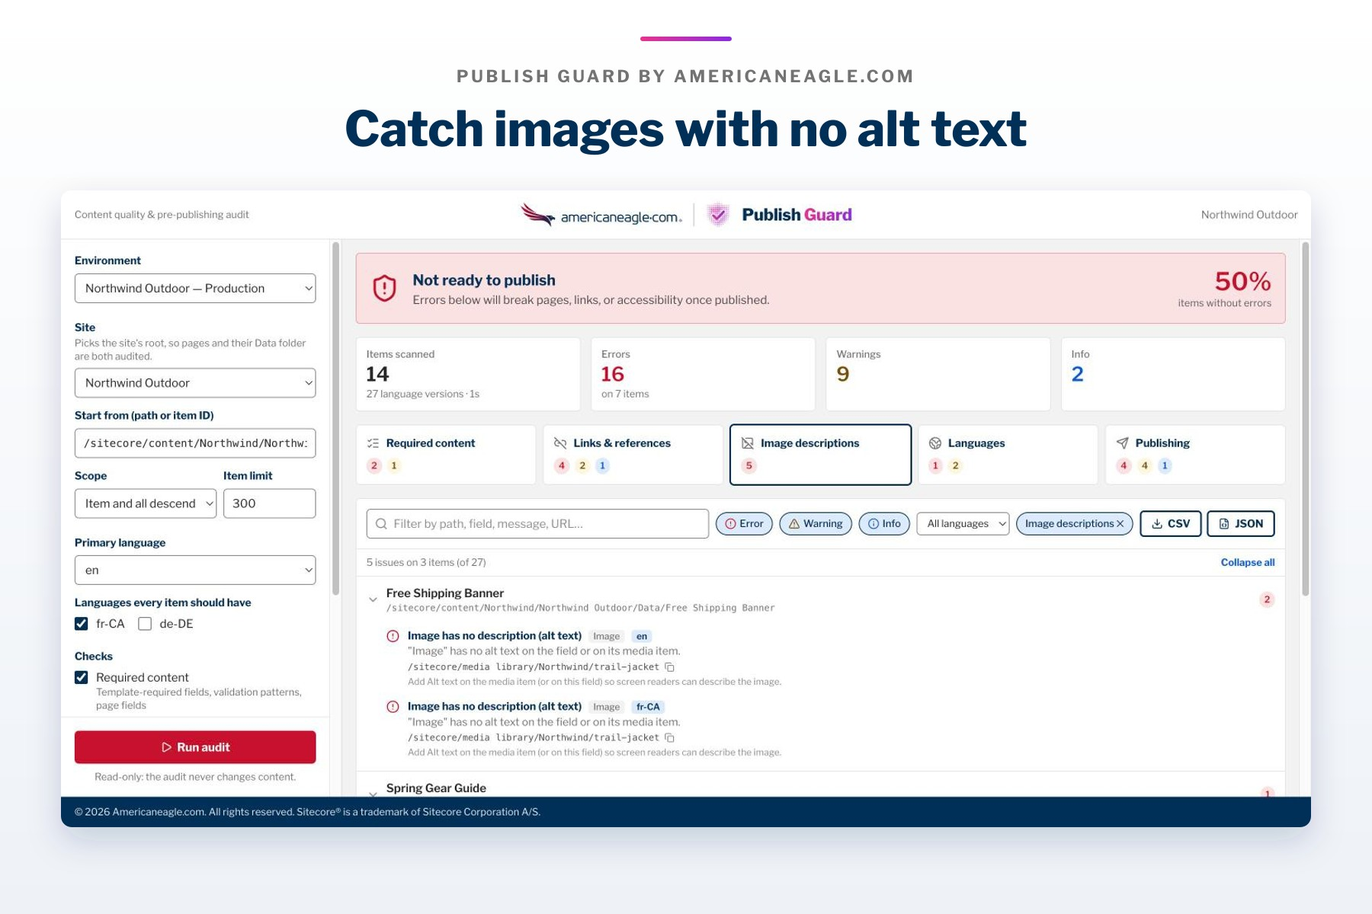
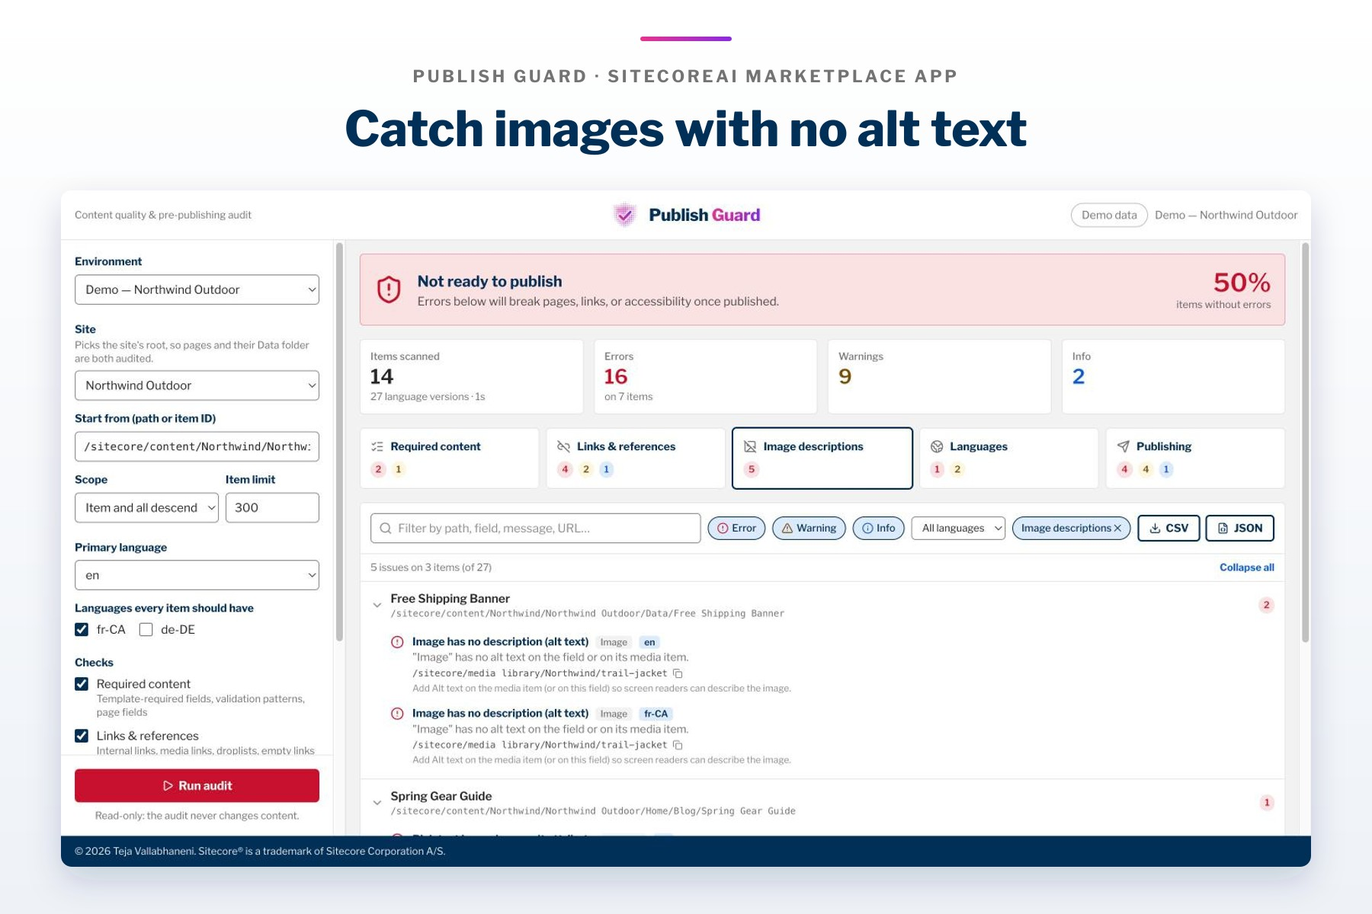
Rebrand Publish Guard as a personal project (UI and docs only)
- Remove the Americaneagle.com logo from the header and credit the footer
  to Teja Vallabhaneni; update the page title
- Rename --ae-* / .ae-* style tokens and classes to --pg-* / .pg-* and drop
  AE references from comments (same colours, no layout changes)
- README: new summary, links to the demo and how-to guide, and a screenshot
  gallery; Marketplace listing doc and article sources without AE branding
- Recapture the Marketplace and article screenshots from the offline demo

No changes to audit logic: src/lib is untouched and all 448 tests pass.

diff --git a/docs/articles/out/content-transfer.preview.html b/docs/articles/out/content-transfer.preview.html
@@ -1,9 +1,9 @@
-<!doctype html><meta charset="utf-8"><title>How to Use Content Transfer: Copy Content Between SitecoreAI Environments</title><style>body{font:17px/1.6 Georgia,serif;max-width:760px;margin:40px auto;padding:0 16px;color:#222}img{max-width:100%;height:auto}figcaption{font:13px sans-serif;color:#666;text-align:center}table{border-collapse:collapse;width:100%;font:15px sans-serif}td,th{border:1px solid #ddd;padding:8px;vertical-align:top;text-align:left}blockquote{border-left:4px solid #8a2be2;margin:1em 0;padding:.2em 1em;background:#f6f2fd}code{background:#f2f2f2;padding:0 3px}</style><h1>How to Use Content Transfer: Copy Content Between SitecoreAI Environments</h1><p><em>A step-by-step guide to Content Transfer by AE, the SitecoreAI Marketplace app that copies content from one environment to another the way the Sitecore 10 Package Manager did: pick items, choose what happens if they exist, review every change, then execute.</em></p><!-- wp:paragraph -->
+<!doctype html><meta charset="utf-8"><title>How to Use Content Transfer: Copy Content Between SitecoreAI Environments</title><style>body{font:17px/1.6 Georgia,serif;max-width:760px;margin:40px auto;padding:0 16px;color:#222}img{max-width:100%;height:auto}figcaption{font:13px sans-serif;color:#666;text-align:center}table{border-collapse:collapse;width:100%;font:15px sans-serif}td,th{border:1px solid #ddd;padding:8px;vertical-align:top;text-align:left}blockquote{border-left:4px solid #8a2be2;margin:1em 0;padding:.2em 1em;background:#f6f2fd}code{background:#f2f2f2;padding:0 3px}</style><h1>How to Use Content Transfer: Copy Content Between SitecoreAI Environments</h1><p><em>A step-by-step guide to Content Transfer, the SitecoreAI Marketplace app that copies content from one environment to another the way the Sitecore 10 Package Manager did: pick items, choose what happens if they exist, review every change, then execute.</em></p><!-- wp:paragraph -->
 <p>Most SitecoreAI customers run several environments: a development sandbox, staging, production. Content built in one of them has to end up in the others. Packages and serialization are developer tools; they work on files and pipelines. Neither lets a content author say <em>copy these eleven pages to staging, and show me what that will change before it changes anything</em>.</p>
 <!-- /wp:paragraph -->
 
 <!-- wp:paragraph -->
-<p><strong>Content Transfer by AE</strong> is that tool. It is a SitecoreAI Marketplace app, built by Americaneagle.com, that shows two environments' content trees side by side, lets you pick what should move, shows exactly what would change, and only writes when you press Execute. If you used the Sitecore 10 Package Manager, the options will feel familiar.</p>
+<p><strong>Content Transfer</strong> is that tool. It is a SitecoreAI Marketplace app I built that shows two environments' content trees side by side, lets you pick what should move, shows exactly what would change, and only writes when you press Execute. If you used the Sitecore 10 Package Manager, the options will feel familiar.</p>
 <!-- /wp:paragraph -->
 
 <!-- wp:heading -->
@@ -12,7 +12,7 @@
 
 <!-- wp:list {"ordered":true} -->
 <ol class="wp-block-list"><!-- wp:list-item -->
-<li>In <strong>Cloud Portal</strong>, open <strong>Marketplace</strong>, find <strong>Content Transfer by AE</strong> and install it.</li>
+<li>In <strong>Cloud Portal</strong>, open <strong>Marketplace</strong>, find <strong>Content Transfer</strong> and install it.</li>
 <!-- /wp:list-item -->
 <!-- wp:list-item -->
 <li>Install it on <strong>both</strong> environments: the one you copy from and the one you copy to. A transfer needs at least two. Add more later in <strong>My apps → Update installation options</strong>.</li>
@@ -281,5 +281,5 @@
 <!-- /wp:separator -->
 
 <!-- wp:paragraph -->
-<p>Content Transfer is built by <a href="https://www.americaneagle.com/">Americaneagle.com</a>. For support, <a href="https://www.americaneagle.com/contact-us">contact us</a>. Its sibling app, <em>Publish Guard by AE</em>, audits content for broken links, missing alt text, incomplete languages and publishing blockers before you release. A how-to guide for it is also on this blog.</p>
+<p>Content Transfer is a personal project by Teja Vallabhaneni. Its sibling app, <em>Publish Guard</em>, audits content for broken links, missing alt text, incomplete languages and publishing blockers before you release. A how-to guide for it is also on this blog.</p>
 <!-- /wp:paragraph -->

diff --git a/docs/articles/out/publish-guard.preview.html b/docs/articles/out/publish-guard.preview.html
@@ -1,9 +1,9 @@
-<!doctype html><meta charset="utf-8"><title>How to Use Publish Guard: Audit SitecoreAI Content Before You Publish</title><style>body{font:17px/1.6 Georgia,serif;max-width:760px;margin:40px auto;padding:0 16px;color:#222}img{max-width:100%;height:auto}figcaption{font:13px sans-serif;color:#666;text-align:center}table{border-collapse:collapse;width:100%;font:15px sans-serif}td,th{border:1px solid #ddd;padding:8px;vertical-align:top;text-align:left}blockquote{border-left:4px solid #8a2be2;margin:1em 0;padding:.2em 1em;background:#f6f2fd}code{background:#f2f2f2;padding:0 3px}</style><h1>How to Use Publish Guard: Audit SitecoreAI Content Before You Publish</h1><p><em>A step-by-step guide to Publish Guard by AE, the SitecoreAI Marketplace app that audits a whole site for empty required fields, broken links, missing alt text, incomplete languages and publishing blockers before you release.</em></p><!-- wp:paragraph -->
+<!doctype html><meta charset="utf-8"><title>How to Use Publish Guard: Audit SitecoreAI Content Before You Publish</title><style>body{font:17px/1.6 Georgia,serif;max-width:760px;margin:40px auto;padding:0 16px;color:#222}img{max-width:100%;height:auto}figcaption{font:13px sans-serif;color:#666;text-align:center}table{border-collapse:collapse;width:100%;font:15px sans-serif}td,th{border:1px solid #ddd;padding:8px;vertical-align:top;text-align:left}blockquote{border-left:4px solid #8a2be2;margin:1em 0;padding:.2em 1em;background:#f6f2fd}code{background:#f2f2f2;padding:0 3px}</style><h1>How to Use Publish Guard: Audit SitecoreAI Content Before You Publish</h1><p><em>A step-by-step guide to Publish Guard, the SitecoreAI Marketplace app that audits a whole site for empty required fields, broken links, missing alt text, incomplete languages and publishing blockers before you release.</em></p><!-- wp:paragraph -->
 <p>Every SitecoreAI release has the same last-minute questions. Did anyone leave a required field empty? Does that promo still link to a page we deleted? Do the new hero images have alt text? Is the French version of the product page actually there? Will the page even publish, or is it still sitting in a Draft workflow state?</p>
 <!-- /wp:paragraph -->
 
 <!-- wp:paragraph -->
-<p><strong>Publish Guard by AE</strong> answers those questions in one pass. It is a SitecoreAI Marketplace app, built by Americaneagle.com, that audits a whole site (or any part of it) and reports everything that would ship broken, with a clear release verdict at the top. It is read-only: it never creates, changes or deletes content.</p>
+<p><strong>Publish Guard</strong> answers those questions in one pass. It is a SitecoreAI Marketplace app I built that audits a whole site (or any part of it) and reports everything that would ship broken, with a clear release verdict at the top. It is read-only: it never creates, changes or deletes content.</p>
 <!-- /wp:paragraph -->
 
 <!-- wp:paragraph -->
@@ -296,5 +296,5 @@
 <!-- /wp:separator -->
 
 <!-- wp:paragraph -->
-<p>Publish Guard is built by <a href="https://www.americaneagle.com/">Americaneagle.com</a>. For support, <a href="https://www.americaneagle.com/contact-us">contact us</a>. Its sibling app, <em>Content Transfer by AE</em>, copies content between SitecoreAI environments. A how-to guide for it is also on this blog.</p>
+<p>Publish Guard is a personal project by Teja Vallabhaneni. For questions, open an issue on <a href="https://github.com/tejavallabhaneni/sitecoreai-releaseguard/issues">GitHub</a>. Its sibling app, <em>Content Transfer</em>, copies content between SitecoreAI environments. A how-to guide for it is also on this blog.</p>
 <!-- /wp:paragraph -->

diff --git a/src/app/globals.css b/src/app/globals.css
@@ -1,37 +1,36 @@
 @import "tailwindcss";
 
 /*
-  Publish Guard — americaneagle.com design system (shared with Content Transfer by AE).
+  Publish Guard design tokens.
 
-  Every colour is a value from americaneagle.com's stylesheet. Libre Franklin is the
-  only typeface. Headings are bold navy; the primary action is the site's red
-  `.button` (2px border, 5px radius, bold, underline on hover); the product name
+  Libre Franklin is the only typeface. Headings are bold navy; the primary action is a
+  red button (2px border, 5px radius, bold, underline on hover); the product name
   carries the pink → purple gradient.
 */
 
-/* Layer 1: americaneagle.com palette. Components never use these directly. */
+/* Layer 1: raw palette. Components never use these directly. */
 :root {
-  --ae-navy: #003057;
-  --ae-navy-hover: #004db2;
-  --ae-red: #c8102e;
-  --ae-red-hover: #a80e26;
-  --ae-bold-blue: #005cd7;
-  --ae-light-blue: #dbeafb;
-  --ae-text: #262626;
-  --ae-med-gray: #737373;
-  --ae-light-gray: #e5e5e5;
-  --ae-gray: #bfbfbf;
-  --ae-very-light-gray: #f2f2f2;
-  --ae-light-green: #ddf2ec;
-  --ae-dark-green: #007d59;
-  --ae-light-yellow: #fff6e0;
-  --ae-dark-yellow: #de9800;
-  --ae-light-red: #fae1e3;
-  --ae-pink: #e8338e;
-  --ae-purple: #8a2be2;
+  --pg-navy: #003057;
+  --pg-navy-hover: #004db2;
+  --pg-red: #c8102e;
+  --pg-red-hover: #a80e26;
+  --pg-bold-blue: #005cd7;
+  --pg-light-blue: #dbeafb;
+  --pg-text: #262626;
+  --pg-med-gray: #737373;
+  --pg-light-gray: #e5e5e5;
+  --pg-gray: #bfbfbf;
+  --pg-very-light-gray: #f2f2f2;
+  --pg-light-green: #ddf2ec;
+  --pg-dark-green: #007d59;
+  --pg-light-yellow: #fff6e0;
+  --pg-dark-yellow: #de9800;
+  --pg-light-red: #fae1e3;
+  --pg-pink: #e8338e;
+  --pg-purple: #8a2be2;
   /* Contrast-safe extras: amber copy on light yellow (4.5:1), control outline on white (3:1). */
-  --ae-amber-text: #7a5100;
-  --ae-control-line: #8c8c8c;
+  --pg-amber-text: #7a5100;
+  --pg-control-line: #8c8c8c;
 }
 
 /* Layer 2: semantic names used by the components. */
@@ -50,7 +49,7 @@
   --color-canvas: #f2f2f2;
   --color-surface: #ffffff;
 
-  /* Primary action: the site's red button. */
+  /* Primary action: the red button. */
   --color-brand: #c8102e;
   --color-brand-hover: #a80e26;
   /* Selected / active state: light blue with navy. */
@@ -98,16 +97,16 @@ button:not(:disabled) {
   cursor: pointer;
 }
 
-/* "Publish Guard": Guard in the AE pink → purple gradient. */
-.ae-gradient-text {
-  background-image: linear-gradient(90deg, var(--ae-pink), var(--ae-purple));
+/* "Publish Guard": Guard in the pink → purple gradient. */
+.pg-gradient-text {
+  background-image: linear-gradient(90deg, var(--pg-pink), var(--pg-purple));
   -webkit-background-clip: text;
   background-clip: text;
   color: transparent;
 }
 
-/* 12px bold uppercase, 3px tracking, medium gray — the site's eyebrow. */
-.ae-eyebrow {
+/* 12px bold uppercase, 3px tracking, medium gray — the eyebrow style. */
+.pg-eyebrow {
   font-size: 12px;
   font-weight: 700;
   letter-spacing: 3px;

diff --git a/src/components/brand.tsx b/src/components/brand.tsx
@@ -1,21 +1,12 @@
 /* eslint-disable @next/next/no-img-element -- static SVG brand assets, nothing to optimise */
 
 /**
- * americaneagle.com logo | divider | Publish Guard mark + name — the same lockup as
- * Content Transfer by AE. The name is live text: "Publish" navy, "Guard" in the
+ * Publish Guard mark + name. The name is live text: "Publish" navy, "Guard" in the
  * pink → purple gradient.
  */
 export function BrandLockup() {
   return (
     <div className="flex min-w-0 items-center gap-2.5 sm:gap-3.5">
-      <img
-        src="/branding/americaneagle-logo.svg"
-        alt="Americaneagle.com"
-        width={221}
-        height={34}
-        className="h-[22px] w-auto shrink-0 sm:h-[30px]"
-      />
-      <span aria-hidden className="h-6 w-px shrink-0 bg-line-strong sm:h-7" />
       <img
         src="/branding/publish-guard-mark.svg"
         alt=""
@@ -24,7 +15,7 @@ export function BrandLockup() {
         className="h-[26px] w-auto shrink-0 sm:h-[34px]"
       />
       <span className="hidden text-[17px] leading-none font-extrabold tracking-[-0.01em] whitespace-nowrap text-navy min-[480px]:inline sm:text-xl">
-        Publish <span className="ae-gradient-text">Guard</span>
+        Publish <span className="pg-gradient-text">Guard</span>
       </span>
       <span className="sr-only min-[480px]:hidden">Publish Guard</span>
     </div>
@@ -35,8 +26,7 @@ export function BrandLockup() {
 export function AppFooter() {
   return (
     <footer className="shrink-0 bg-navy px-4 py-2.5 text-[12px] text-[#dfe7ef]">
-      © {new Date().getFullYear()} Americaneagle.com. All rights reserved. Sitecore® is a trademark of Sitecore
-      Corporation A/S.
+      © {new Date().getFullYear()} Teja Vallabhaneni. Sitecore® is a trademark of Sitecore Corporation A/S.
     </footer>
   );
 }

diff --git a/scripts/build-article-images.js b/scripts/build-article-images.js
@@ -51,7 +51,7 @@ async function cover(name, logoFile, eyebrow, titleLines, sub, shotFile) {
     ${text(f700, eyebrow, 20, 80, 318, "#737373", 0.16)}
     ${lines}
     ${text(f400, sub, 28, 80, 400 + titleLines.length * 70 + 20, "#4a5565")}
-    ${text(f700, "americaneagle.com", 24, 80, 1120, "#003057")}
+    ${text(f700, "Teja Vallabhaneni", 24, 80, 1120, "#003057")}
     <rect x="${W - sw - 60}" y="660" width="${sw}" height="${sh}" rx="14" fill="#fff" filter="url(#s)"/></svg>`;
   await sharp(Buffer.from(bg))
     .composite([
@@ -65,8 +65,8 @@ async function cover(name, logoFile, eyebrow, titleLines, sub, shotFile) {
 (async () => {
   for (const f of fs.readdirSync(raw).filter((f) => f.endsWith(".jpg"))) await frame(f);
   await cover("pg-cover-4x3.jpg", path.join(__dirname, "..", "public/branding/publish-guard-logo-512.png"), "HOW-TO · SITECOREAI MARKETPLACE",
-    ["Audit SitecoreAI", "content before", "you publish"], "Publish Guard by AE, step by step", "pg-02-verdict.jpg");
+    ["Audit SitecoreAI", "content before", "you publish"], "Publish Guard, step by step", "pg-02-verdict.jpg");
   await cover("ct-cover-4x3.jpg", "/Users/tvallabh/sitecoreai-relay/public/branding/content-transfer-logo-512.png", "HOW-TO · SITECOREAI MARKETPLACE",
-    ["Copy content", "between SitecoreAI", "environments"], "Content Transfer by AE, step by step", "ct-04-review.jpg");
+    ["Copy content", "between SitecoreAI", "environments"], "Content Transfer, step by step", "ct-04-review.jpg");
   console.log(fs.readdirSync(out).join("\n"));
 })();

diff --git a/scripts/build-screenshots.js b/scripts/build-screenshots.js
@@ -1,7 +1,7 @@
 /* eslint-disable @typescript-eslint/no-require-imports -- plain Node build script */
 /**
  * Frames raw app captures (marketplace/raw/*.jpg) as 1800x1200 Marketplace screenshots:
- * caption in Libre Franklin ExtraBold navy, eyebrow in AE gray, the capture in a rounded card.
+ * caption in Libre Franklin ExtraBold navy, eyebrow in gray, the capture in a rounded card.
  *   NODE_PATH=<dir with sharp> node scripts/build-screenshots.js
  */
 const fs = require("fs");
@@ -49,7 +49,7 @@ function centered(font, text, size, y, fill, letterSpacing = 0) {
   </defs>
   <rect width="${W}" height="${H}" fill="url(#bg)"/>
   <rect x="${(W - 120) / 2}" y="48" width="120" height="6" rx="3" fill="url(#bar)"/>
-  ${centered(font700, "PUBLISH GUARD BY AMERICANEAGLE.COM", 22, 108, "#737373", 0.16)}
+  ${centered(font700, "PUBLISH GUARD · SITECOREAI MARKETPLACE APP", 22, 108, "#737373", 0.16)}
   ${centered(font800, caption, 64, 192, "#003057")}
   <rect x="${x}" y="${y}" width="${cw}" height="${ch}" rx="${radius}" fill="#fff" filter="url(#s)"/>
 </svg>`;

diff --git a/src/components/ui.tsx b/src/components/ui.tsx
@@ -17,7 +17,7 @@ export function Button({
     <button
       type="button"
       className={cn(
-        // americaneagle.com .button: 2px border, 5px radius, bold, underline on hover.
+        // Button: 2px border, 5px radius, bold, underline on hover.
         "inline-flex items-center justify-center gap-1.5 rounded-[5px] border-2 border-transparent font-bold whitespace-nowrap underline-offset-3 transition-colors hover:underline disabled:cursor-not-allowed disabled:opacity-45 disabled:hover:no-underline",
         size === "sm" ? "min-h-8 px-3 text-[13px]" : "min-h-10 px-5 text-sm",
         variant === "primary" && "bg-brand text-white hover:bg-brand-hover",

diff --git a/scripts/build-logo.js b/scripts/build-logo.js
@@ -6,7 +6,7 @@ const path = require("path");
  *   publish-guard-logo.svg  512 white tile: halftone shield + check, "Publish" navy / "Guard" gradient
  *   publish-guard-mark.svg  the shield alone, transparent (header lockup)
  *   publish-guard-icon.svg  the shield on white with a coarser dot grid (favicons, small sizes)
- * Same family as Content Transfer by AE: halftone dots in the AE pink -> purple gradient,
+ * Same family as Content Transfer: halftone dots in the pink -> purple gradient,
  * Libre Franklin ExtraBold wordmark converted to outlines.
  *
  *   node scripts/build-logo.js && node scripts/render-logo.js

diff --git a/src/app/layout.tsx b/src/app/layout.tsx
@@ -2,7 +2,7 @@ import type { Metadata } from "next";
 import { Libre_Franklin } from "next/font/google";
 import "./globals.css";
 
-// americaneagle.com's typeface, and the only one the app uses.
+// The only typeface the app uses.
 const sans = Libre_Franklin({
   subsets: ["latin"],
   weight: ["400", "500", "600", "700", "800"],
@@ -11,7 +11,7 @@ const sans = Libre_Franklin({
 });
 
 export const metadata: Metadata = {
-  title: "Publish Guard — Americaneagle.com",
+  title: "Publish Guard — SitecoreAI content audit",
   description: "Bulk content quality and pre-publishing audit for SitecoreAI.",
 };
 

diff --git a/src/components/release-guard.tsx b/src/components/release-guard.tsx
@@ -328,7 +328,7 @@ function EmptyState({ demo }: { demo: boolean }) {
   ];
   return (
     <div className="mx-auto max-w-3xl py-6">
-      <p className="ae-eyebrow">Pre-publishing audit</p>
+      <p className="pg-eyebrow">Pre-publishing audit</p>
       <h2 className="mt-1 text-2xl font-bold text-navy">Audit content before you publish</h2>
       <p className="mt-1 text-sm text-muted">
         Pick a site or starting item, choose the languages it must have, and run the audit. Publish Guard reads content

diff --git a/README.md b/README.md
@@ -1,6 +1,30 @@
-# Publish Guard by AE (code name ReleaseGuard)
+# Publish Guard (code name ReleaseGuard)
 
-**An Americaneagle.com product** — sibling of Content Transfer by AE.
+A SitecoreAI Marketplace app for checking content before you publish. Personal project by
+[Teja Vallabhaneni](https://teja-vallabhaneni.vercel.app).
+
+![Publish Guard: a release verdict for the whole site](marketplace/screenshots/1-release-verdict.jpg)
+
+## Summary
+
+Publish Guard audits a whole SitecoreAI site, or any subtree, in one pass and tells you whether it is ready to
+publish. It flags empty required fields, broken links and references, images without alt text, missing or
+untranslated language versions, unapproved workflow states and components with missing datasources, then gives a
+release verdict (**Not ready / Ready with warnings / Ready**) with an exportable CSV or JSON report. It is
+read-only: it never creates, changes or deletes content.
+
+- **Live demo:** <https://sitecoreai-releaseguard.vercel.app> (opens an offline demo outside Sitecore)
+- **How-to guide:** [How to Use Publish Guard: Audit SitecoreAI Content Before You Publish](https://tejavallabhanenisitecore.wordpress.com/2026/11/09/publish-guard-sitecoreai-pre-publishing-content-audit/)
+
+## Screenshots
+
+| | |
+|---|---|
+| ![Release verdict](marketplace/screenshots/1-release-verdict.jpg) | ![Image descriptions](marketplace/screenshots/2-image-descriptions.jpg) |
+| ![Links and references](marketplace/screenshots/3-links-and-references.jpg) | ![Languages](marketplace/screenshots/4-languages.jpg) |
+| ![Publishing](marketplace/screenshots/5-publishing.jpg) | ![Audit setup](marketplace/screenshots/6-audit-setup.jpg) |
+
+## Overview
 
 Bulk content quality and pre-publishing audit for SitecoreAI. Point it at a site
 or any item, pick the languages the content must exist in, and it reports
@@ -85,19 +109,17 @@ npx vercel --prod
 
 ## Brand
 
-The interface uses the **americaneagle.com** design system, shared with Content Transfer by AE: tokens in
-[`src/app/globals.css`](src/app/globals.css) (raw `--ae-*` palette, then semantic names), **Libre Franklin** as the only
-typeface, navy headings, the site's red `.button` (2px border, 5px radius, bold, underline on hover) for the primary
-action, and the navy footer with the Sitecore trademark notice.
+Design tokens live in [`src/app/globals.css`](src/app/globals.css) (raw `--pg-*` palette, then semantic names):
+**Libre Franklin** as the only typeface, navy headings, a red button (2px border, 5px radius, bold, underline on
+hover) for the primary action, and a navy footer with the Sitecore trademark notice.
 
 | File | Use |
 |---|---|
 | `public/branding/publish-guard-logo-512.png` | The App studio **App logo** (white tile, halftone shield, "Publish" navy / "Guard" gradient). 1024px and SVG beside it. |
-| `public/branding/publish-guard-mark.svg` | The halftone shield alone — header lockup. |
+| `public/branding/publish-guard-mark.svg` | The halftone shield alone, used in the header. |
 | `public/branding/publish-guard-icon.svg` | Coarser-grid shield for favicons (`src/app/icon.png`, `apple-icon.png`). |
-| `public/branding/americaneagle-logo.svg` | The americaneagle.com wordmark in the header lockup. Never the App logo. |
 
-The artwork is generated, not drawn: `node scripts/build-logo.js` writes the SVGs (halftone dots in the AE pink → purple
+The artwork is generated, not drawn: `node scripts/build-logo.js` writes the SVGs (halftone dots in the pink → purple
 gradient, Libre Franklin ExtraBold outlined with opentype.js), `node scripts/render-logo.js` renders the PNGs (needs `sharp`).
 Sitecore's own marks are used nowhere.
 

diff --git a/marketplace/listing.md b/marketplace/listing.md
@@ -1,6 +1,8 @@
-# Publish Guard by AE — Sitecore Marketplace listing
+# Publish Guard — Sitecore Marketplace listing
 
 Source of truth for the public App Studio listing. Keep this file and App Studio in sync.
+
+> **To do before the next submission:** the live App Studio listing still uses the earlier Americaneagle.com links and contact email. Publish Guard is now a personal project, so add your own website, support, privacy policy and terms links below and in App Studio.
 
 ## App
 
@@ -18,7 +20,7 @@ Audit SitecoreAI content before you publish. Publish Guard scans a whole site or
 
 ## Description
 
-Publish Guard by AE is a bulk content quality and pre-publishing audit for SitecoreAI. Pick a site or any starting item, choose the languages your content must exist in, and run the audit. Publish Guard reads the authoring database and reports everything that would ship broken. It never writes to your content.
+Publish Guard is a bulk content quality and pre-publishing audit for SitecoreAI. Pick a site or any starting item, choose the languages your content must exist in, and run the audit. Publish Guard reads the authoring database and reports everything that would ship broken. It never writes to your content.
 
 Required content: fields marked Required on their template (including inherited base templates) that are empty in any audited language, values that fail the field's validation pattern, and page fields you name, such as Title or MetaDescription.
 
@@ -38,10 +40,10 @@ Requirements: install the app on the SitecoreAI environments you want to audit. 
 
 | Field | Value |
 |---|---|
-| Website | https://www.americaneagle.com/contact-us |
-| Support | https://www.americaneagle.com/contact-us |
-| Privacy policy | https://www.americaneagle.com/legal/sitecoreai-marketplace-privacy-and-data-collection |
-| Terms and conditions | https://www.americaneagle.com/legal/sitecoreai-marketplace-privacy-and-data-collection |
+| Website | https://teja-vallabhaneni.vercel.app |
+| Support | https://github.com/tejavallabhaneni/sitecoreai-releaseguard/issues |
+| Privacy policy | To add (see the to-do above) |
+| Terms and conditions | To add (see the to-do above) |
 
 ## Data usage disclosure
 
@@ -58,12 +60,12 @@ The app does not use AI.
 | Field | Value |
 |---|---|
 | Personal name | Teja Vallabhaneni |
-| Email | teja.vallabhaneni@americaneagle.com |
+| Email | (submitter email; not published here) |
 | Security attestation | Ticked by the submitter after reviewing Sitecore's security checklist |
 
 ### Summary (≤ 500)
 
-Publish Guard by AE gives SitecoreAI teams a pre-publishing quality gate. It audits a whole site in one pass for empty required fields, broken links and references, missing alt text, missing or untranslated language versions, unapproved workflow and broken components, and returns a release verdict with an exportable report. It is read-only. Built by Americaneagle.com for clients who need confidence before every release.
+Publish Guard gives SitecoreAI teams a pre-publishing quality gate. It audits a whole site in one pass for empty required fields, broken links and references, missing alt text, missing or untranslated language versions, unapproved workflow and broken components, and returns a release verdict with an exportable report. It is read-only, built for teams who need confidence before every release.
 
 ## Configuration
 
